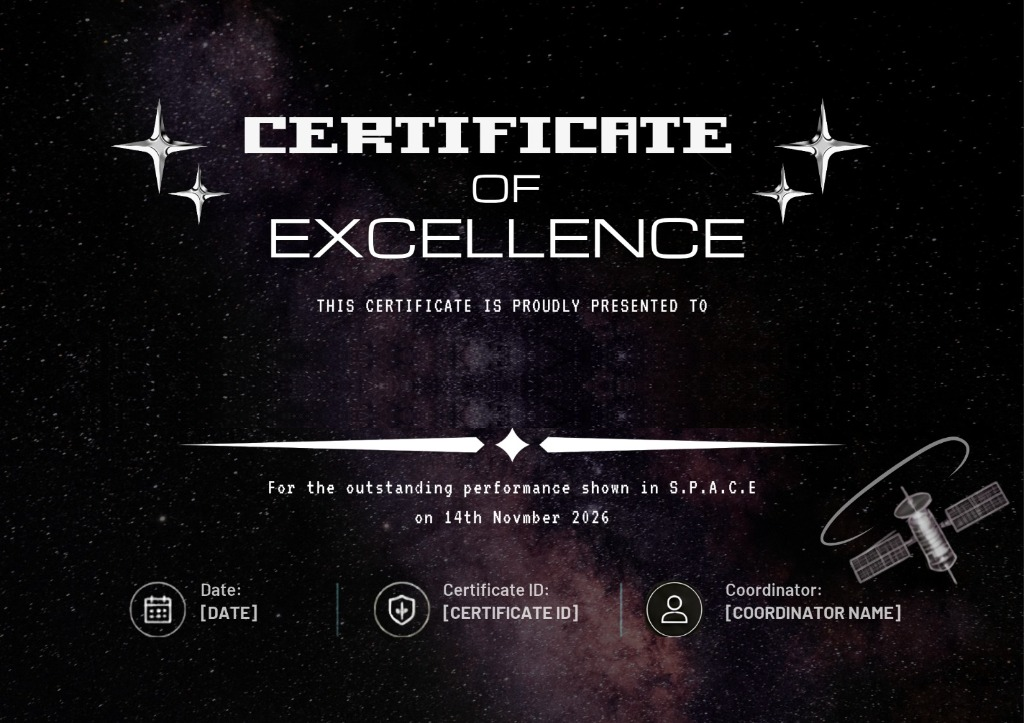
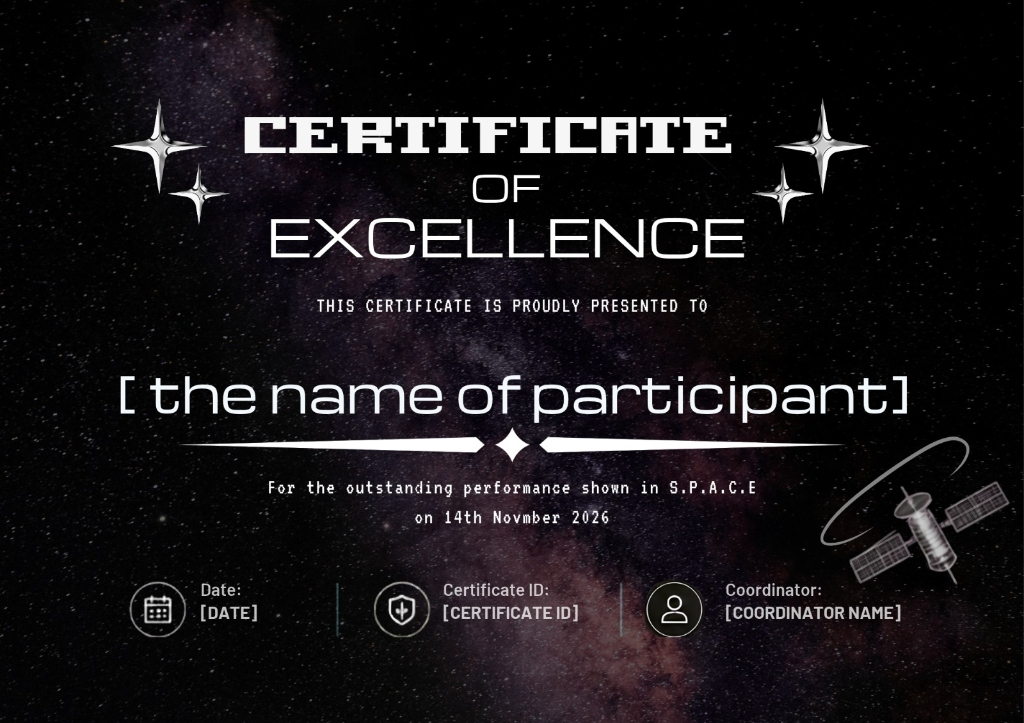
feat: add certificate image and update canvas rendering for participant name overlay

Changed region(s): [[0.0938, 0.4869, 0.9062, 0.6086]]

diff --git a/script.js b/script.js
@@ -2851,10 +2851,8 @@ const MODEL_CONFIGS = {
             ctx.clearRect(0, 0, canvas.width, canvas.height);
             ctx.drawImage(img, 0, 0, canvas.width, canvas.height);
 
-            // Seamlessly cover baked-in title & placeholder labels with adjacent starry background
-            ctx.drawImage(img, 240, 30, 526, 74, 240, 112, 526, 74);
-            ctx.drawImage(img, 240, 30, 526, 74, 240, 186, 526, 76);
-
+            // Seamlessly cover baked-in placeholder labels with adjacent starry background
+            ctx.drawImage(img, 112, 322, 804, 52, 112, 372, 804, 52); // [ the name of participant]
             const patchAreas = [
                 { x: 196, w: 124 }, // [DATE]
                 { x: 438, w: 162 }, // [CERTIFICATE ID]
@@ -2864,19 +2862,6 @@ const MODEL_CONFIGS = {
                 ctx.drawImage(img, area.x, 626, area.w, 24, area.x, 600, area.w, 24);
             });
 
-            // Draw new certificate title: SPACE EXPLORER CERTIFICATE
-            ctx.save();
-            ctx.textAlign = 'center';
-            ctx.textBaseline = 'middle';
-            ctx.fillStyle = '#ffffff';
-            ctx.shadowColor = 'rgba(0, 0, 0, 0.85)';
-            ctx.shadowBlur = 10;
-            ctx.font = '700 40px "IBM Plex Sans Arabic", Arial, sans-serif';
-            ctx.fillText('SPACE EXPLORER', canvas.width / 2, 165);
-            ctx.font = '700 50px "IBM Plex Sans Arabic", Arial, sans-serif';
-            ctx.fillText('CERTIFICATE', canvas.width / 2, 224);
-            ctx.restore();
-
             // Draw the participant's name centered on the certificate
             ctx.save();
             ctx.textAlign = 'center';
@@ -2885,7 +2870,7 @@ const MODEL_CONFIGS = {
             ctx.fillStyle = '#ffcb6b';
             ctx.shadowColor = 'rgba(0, 0, 0, 0.85)';
             ctx.shadowBlur = 12;
-            ctx.fillText(userName, canvas.width / 2, canvas.height * 0.545);
+            ctx.fillText(userName, canvas.width / 2, 398);
             ctx.restore();
 
             // Draw today's date, random Certificate ID, and Coordinator
